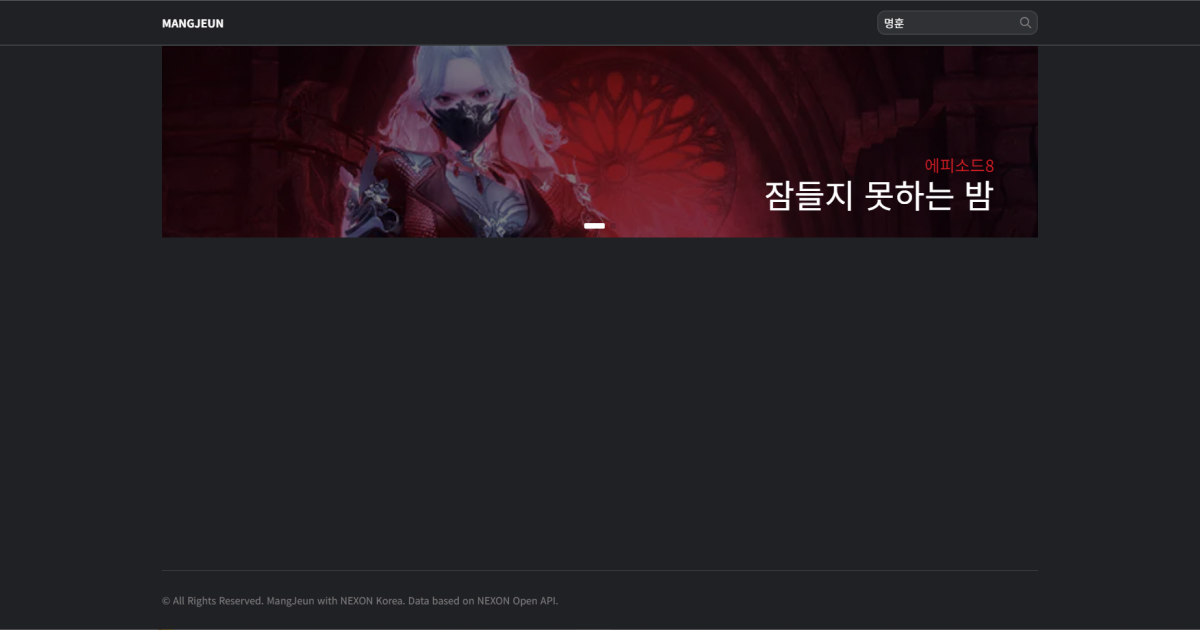
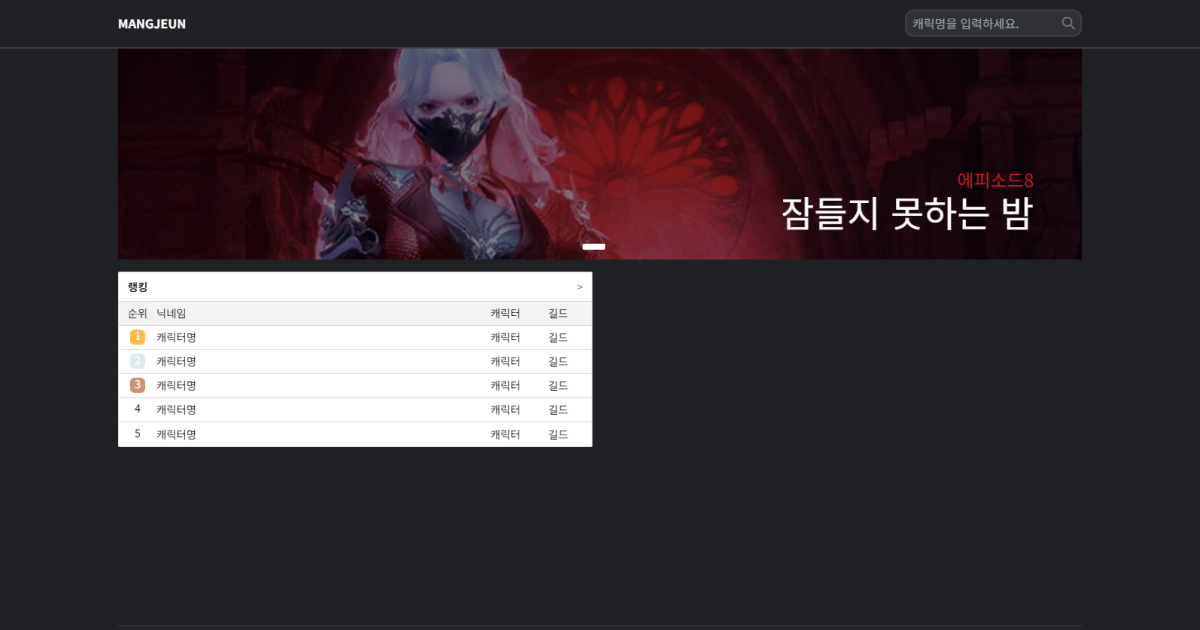
20240326

Changed region(s): [[0.0, 0.0, 1.0, 0.7238], [0.0, 0.9952, 1.0, 1.0], [0.1233, 0.9349, 0.4625, 0.9651]]

diff --git a/README.md b/README.md
@@ -1,7 +1,23 @@
 # 마비노기 영웅전 API
+Next.js와 Nexon Open API를 사용하여 만든 마비노기영웅전 검색 사이트입니다.
+마비노기영웅전 이용자를 위한 캐릭터 정보 검색 사이트입니다.
 
 ## 설치
+<details>
+<summary>Install</summary>
 ```
 npm install axios
-npm install swiperg
+npm install swiper
 ```
+</details>
+
+## 기능소개
+유저 정보 검색
+
+      1. Character 컴포넌트는 name을 prop으로 받아옵니다.
+      2. useState 훅을 사용하여 data 상태를 초기화합니다. 이 상태는 캐릭터 정보를 저장합니다.
+      3. useEffect 훅을 사용하여 컴포넌트가 마운트될 때와 name prop이 변경될 때마다 데이터를 가져옵니다.
+      4. fetchData 함수를 통해 API를 호출하여 캐릭터 정보를 가져옵니다.
+      5. bgCharacter 함수는 캐릭터 클래스 이름을 받아서 해당 클래스에 맞는 배경 클래스를 반환합니다.
+      6. 데이터가 없을 경우 로딩 스피너를 보여줍니다.
+      7. 데이터가 있을 경우, 캐릭터 정보와 아이템, 타이틀 정보를 표시합니다.
